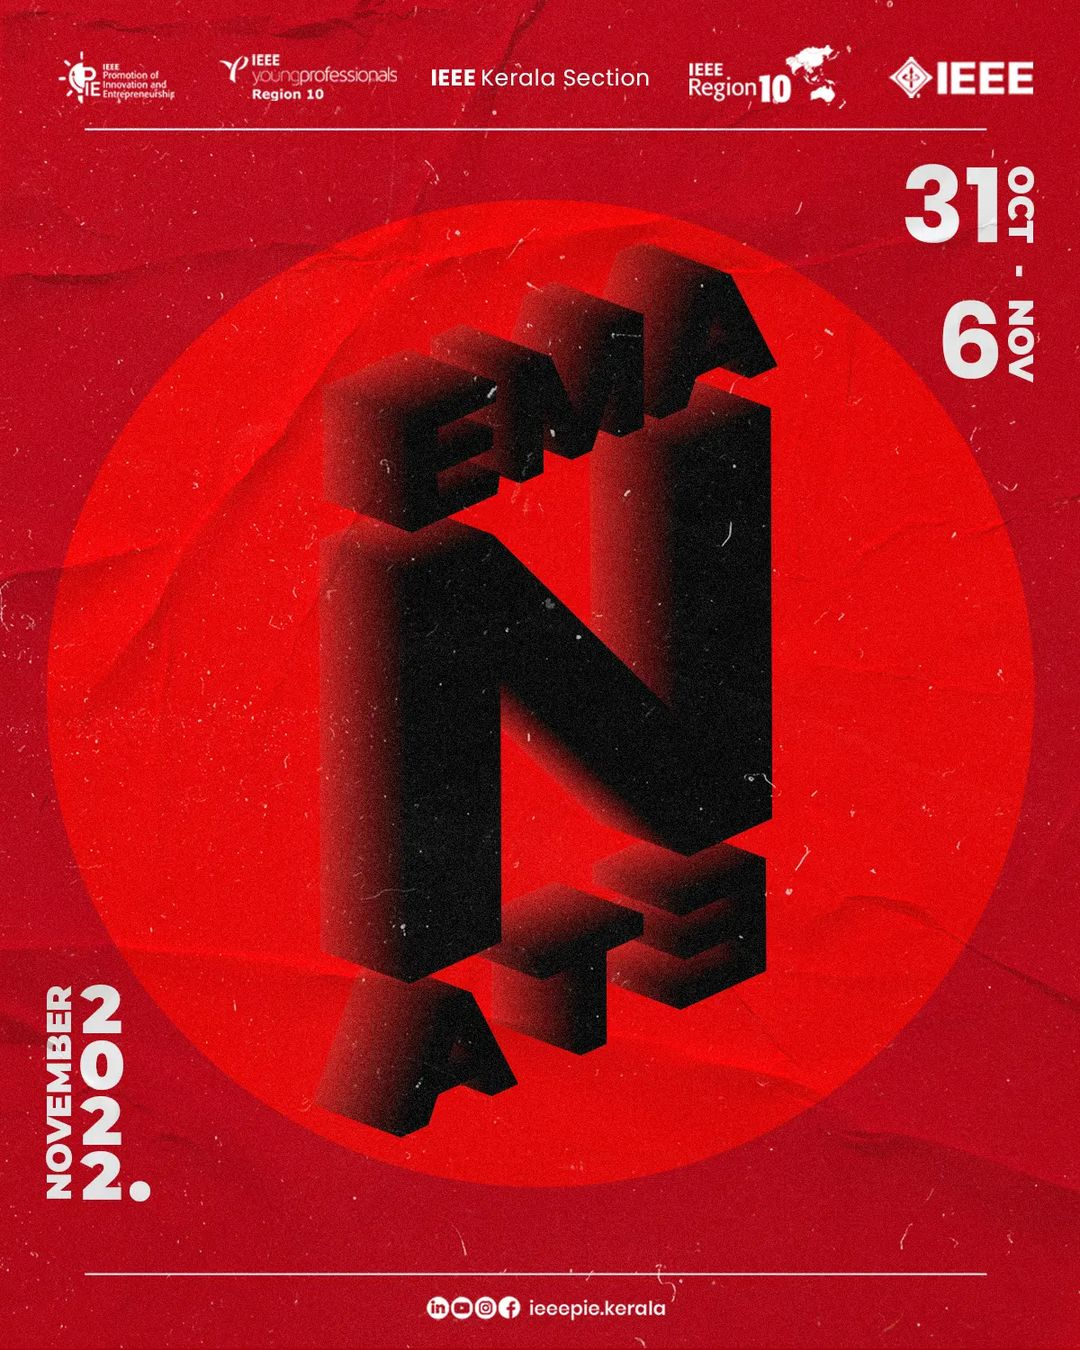
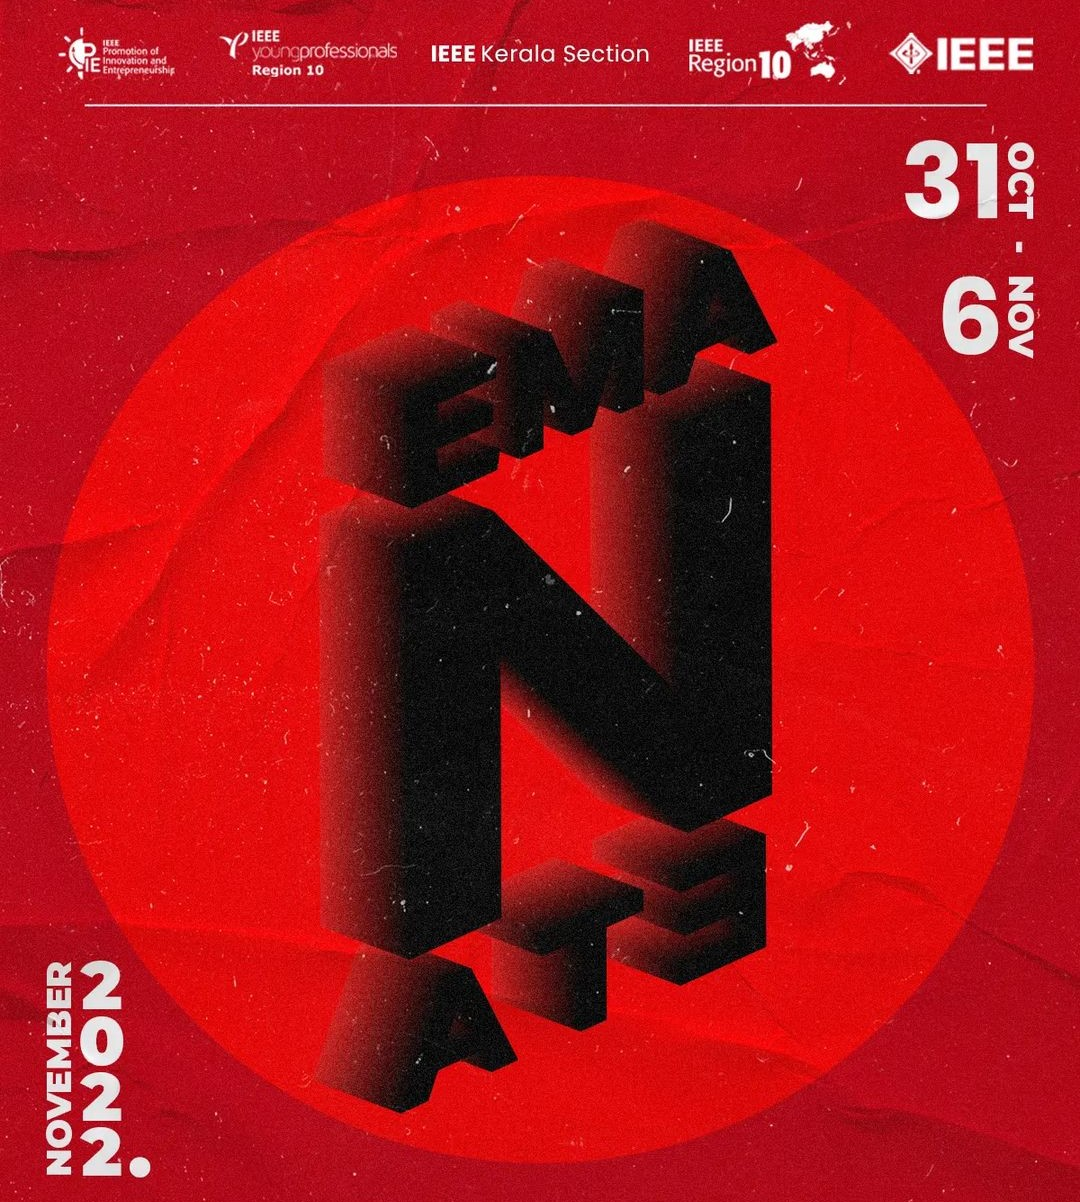
pode templet 1

diff --git a/components/Gallery.module.css b/components/Gallery.module.css
@@ -1,98 +1,21 @@
-.bg,
-.frameChild {
-  position: absolute;
-}
-.bg {
-  top: -52.1px;
-  left: calc(50% - 723.95px);
-  border-radius: 43.93px;
-  background-color: #352f2f;
-  width: 1502.5px;
-  height: 922.6px;
-  display: none;
-}
-.frameChild {
-  height: 100%;
-  top: 0;
-  bottom: 0;
-  left: 101.6px;
-  max-height: 100%;
-  width: 383.9px;
-  object-fit: contain;
-}
-.center {
-  position: absolute;
-  top: 35.6px;
-  left: 0;
-  border-radius: 43.93px;
-  background: radial-gradient(
-    50% 50%at 50% 50%,
-    rgba(255, 255, 255, 0.5) 12.44%,
-    rgba(137, 137, 137, 0.17)
-  );
-  backdrop-filter: blur(87.87px);
-  border: 1.8px solid rgba(255, 255, 255, 0.56);
-  box-sizing: border-box;
-  width: 413px;
-  height: 351.5px;
-  z-index: 1;
-}
-.vectorParent {
-  position: absolute;
-  top: 197.8px;
-  left: 465.7px;
-  width: 485.5px;
-  height: 404.8px;
-}
-.ieee,
-.pie {
-  margin: 0;
-}
-.ieeePie {
-  position: absolute;
-  top: 269.5px;
-  left: 569.4px;
-  letter-spacing: 0.06em;
-  mix-blend-mode: overlay;
-  z-index: 2;
-}
-.gridIcon {
-  position: absolute;
-  top: 0;
-  left: 0;
-  width: 100%;
-  height: 100%;
-  z-index: 3;
-}
-.gallery1 {
-  height: 817.1px;
-  flex: 1;
-  position: relative;
-  max-width: 100%;
-  text-align: center;
-  font-size: 131.8px;
-  color: rgba(255, 255, 255, 0.7);
-  font-family: "Squada One";
-}
-.gallery {
-  padding-left: 8vw;
-  padding-right: 8vw;
+.gridIcon{
+  height: auto;
   width: 80vw;
-  max-width: 100%;
-  display: flex;
-  flex-direction: row;
-  align-items: flex-start;
-  justify-content: flex-start;
-  line-height: normal;
-  letter-spacing: normal;
+  padding-bottom: 5vh;
 }
-@media screen and (max-width: 767px) {
-  .ieeePie {
-    font-size: 53px;
-  }
+
+.heading{
+  font-size: 2em;
 }
-@media screen and (max-width: 450px) {
-  .ieeePie {
-    font-size: 33px;
+
+.buttons{
+  padding: 5vh;
+  padding-bottom: 10vh;
+}
+
+@media screen and (max-width: 768px) {
+  .buttons{
+    padding: 2vh;
+    padding-bottom: 5vh;
   }
 }

diff --git a/pages/test.jsx b/pages/test.jsx
@@ -6,44 +6,43 @@ import { majorEvents } from "../Data/majorEvents";
 import { voiceIt } from "../Data/voiceIt";
 import Card from "../components/card";
 import RecentEvents from "./Events/recentEvents";
+import PodCard from "../components/podcard";
+import { piePods } from "../Data/piepods";
 
 function Test() {
   return (
     <div>
-      <Gallery />
-
-      {/* <Gallery /> */}
-
       <RecentEvents />
+      <RecentEventsSpotify />
     </div>
   );
 }
 
 export default Test;
 
-// const RecentEvents = () => {
-//   const generateCards = () =>
-//     voiceIt.map((item) => (
-//       <Card key={item.id} img={item.img} text={item.name} />
-//     ));
+const RecentEventsSpotify = () => {
+  const generateCards = () =>
+    piePods.map((item) => (
+      <PodCard key={item.id} img={item.img} text={item.name} />
+    ));
 
-//   return (
-//     <>
-//       <h1>Recent Events</h1>
-//       <div
-//         style={{
-//           display: "flex",
-//           justifyContent:
-//             window.innerHeight > window.innerWidth
-//               ? "flex-start"
-//               : "space-around",
-//           width: "100vw",
-//           alignItems: "center",
-//           overflowX: "scroll",
-//         }}
-//       >
-//         {generateCards()}
-//       </div>
-//     </>
-//   );
-// };
+  return (
+    <>
+      <h1>PIE PODS</h1>
+      <div
+        style={{
+          display: "flex",
+          justifyContent:
+            window.innerHeight > window.innerWidth
+              ? "flex-start"
+              : "space-around",
+          width: "100vw",
+          alignItems: "center",
+          overflowX: "scroll",
+        }}
+      >
+        {generateCards()}
+      </div>
+    </>
+  );
+};

diff --git a/components/podcard.jsx b/components/podcard.jsx
@@ -1,0 +1,36 @@
+const PodCard = ({ img, text }) => {
+    return (
+      <div
+        style={{
+          minWidth: window.innerHeight > window.innerWidth ? "60vw" : "40vh",
+          height: window.innerHeight > window.innerWidth ? "90vw" : "60vh",
+          backgroundColor: "white",
+          margin: "3%",
+          borderRadius: "15px",
+          position: "relative",
+          overflow: "hidden",
+        }}
+      >
+        <div>
+          <img
+            style={{
+              position: "absolute",
+              top: "0%",
+              left: "-30%",
+              width: "auto",
+              height: "105%",
+              objectFit: "cover",
+              overflow: "hidden",
+              justifyContent: "center",
+            }}
+            src={img}
+            alt="event.png"
+          />
+          <h1>{text}</h1>
+        </div>
+      </div>
+    );
+  };
+  
+  export default PodCard;
+  

diff --git a/pages/Events/majorEvents.jsx b/pages/Events/majorEvents.jsx
@@ -2,7 +2,10 @@ import Card from "../../components/card";
 import { majorEvents } from "../../Data/majorEvents";
 
 const MajorEvents = () => {
-  const generateCards = () => majorEvents.map((item) => <Card />);
+  const generateCards = () =>
+    majorEvents.map((item) => (
+      <Card key={item.id} img={item.img} text={item.name} />
+    ));
 
   return (
     <>
@@ -16,7 +19,9 @@ const MajorEvents = () => {
               : "space-around",
           width: "100vw",
           alignItems: "center",
-          overflowX: "scroll",
+          // overflowX: "scroll",
+          flexWrap:"wrap"
+          // scrollbar-width: "none",
         }}
       >
         {generateCards()}

diff --git a/components/gallery.jsx b/components/gallery.jsx
@@ -5,7 +5,11 @@ function Gallery() {
     <div>
       <div className={styles.gallery}>
         <section className={styles.gallery1}>
+          <h1 className={styles.heading}>Gallery</h1>
           <img className={styles.gridIcon} alt="" src="/g_temp.svg" />
+          <div className={styles.buttons}>
+            <button className="join-us-button">View More</button>
+          </div>
         </section>
       </div>
     </div>

diff --git a/pages/about.jsx b/pages/about.jsx
@@ -22,8 +22,7 @@ const About = () => {
             </p>
           </div>
         </div>
-        <div>
-        </div>
+        <div></div>
       </section>
       <HomeInfoCard />
 
@@ -49,9 +48,9 @@ const About = () => {
           the greater good of society and the planet
         </p>
       </section>
-      {/* <div>
+      <div>
         <Gallery />
-      </div> */}
+      </div>
     </div>
   );
 };

diff --git a/Data/piepods.js b/Data/piepods.js
@@ -1,0 +1,18 @@
+export const piePods = [
+    {
+      id: 1,
+      name: "Nikhil Prasad, Founder of Karikku",
+      img: "pod/pie2.jpeg",
+    },
+    {
+      id: 2,
+      name: "Nikhil Kilivayil, CEO & Founder, Brototype",
+      img: "pod/pie4.jpeg",
+    },
+    {
+      id: 3,
+      name: "Agrim Prakash,Founder and CEO of Idiotbox Media",
+      img: "pod/pie3.jpeg",
+    },
+  ];
+  

diff --git a/Data/majorEvents.js b/Data/majorEvents.js
@@ -7,7 +7,7 @@ export const majorEvents = [
   {
     id: 2,
     name: "Emanate",
-    img: "major/emanate.jpeg",
+    img: "major/emanate2.png",
   },
   {
     id: 3,
